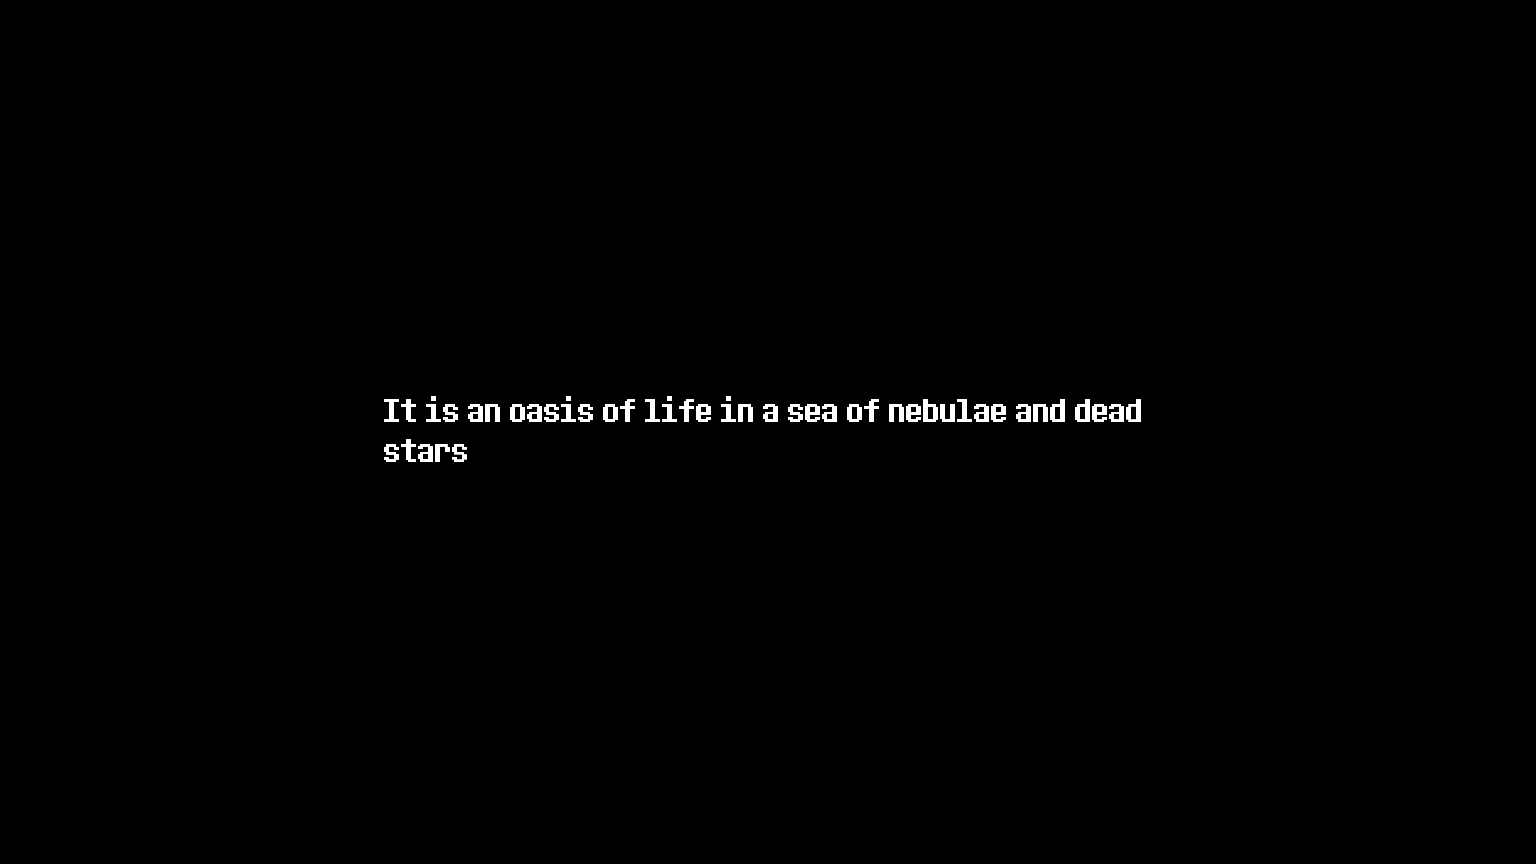
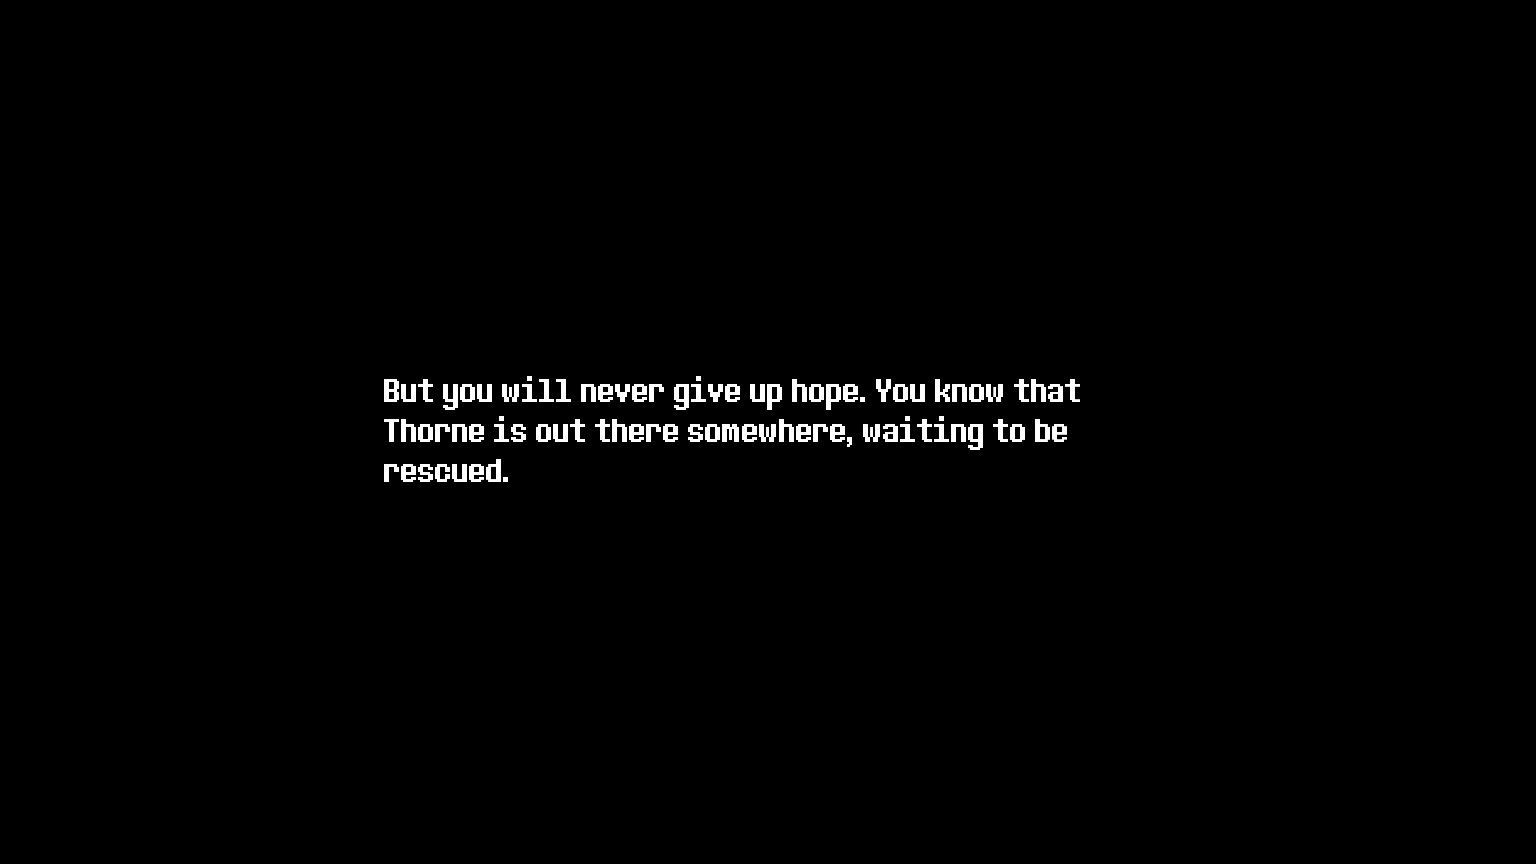
Fixed a typo in the game

Changed region(s): [[0.25, 0.4375, 0.75, 0.5625]]

diff --git a/scenario.py b/scenario.py
@@ -34,16 +34,19 @@ space_bar_rect.center = (screen_width // 2, screen_height * 3 / 4)
 pygame.mixer.music.load("Assets/Scenario/sound_message_appearing.mp3")
 pygame.mixer.music.set_volume(0.25)
 
+
 # Function to draw the cursor on the screen
 def draw_cursor(cursor):
     mouse_pos = pygame.mouse.get_pos()
     screen.blit(cursor, (mouse_pos[0], mouse_pos[1]))
+
 
 # Function to darken the screen with a given transparency level
 def darken_screen(transparency_level):
     surface = pygame.Surface(screen.get_size(), pygame.SRCALPHA)
     surface.fill((0, 0, 0, transparency_level))
     screen.blit(surface, (0, 0))
+
 
 # Function to display the text scenario
 def display_text_scenario(story):
@@ -60,6 +63,10 @@ def display_text_scenario(story):
     displaying_text = False
     screen_fill_black_time = True
     cursor = pygame.transform.scale(cursor_image_still, (32, 32))
+
+    # Loop in order to put a dot at the end of each sentence
+    for i in range(number_of_sentences - 1):
+        sentence_story[i] += "."
 
     # Loop until all sentences are displayed or the user quits
     while True:
